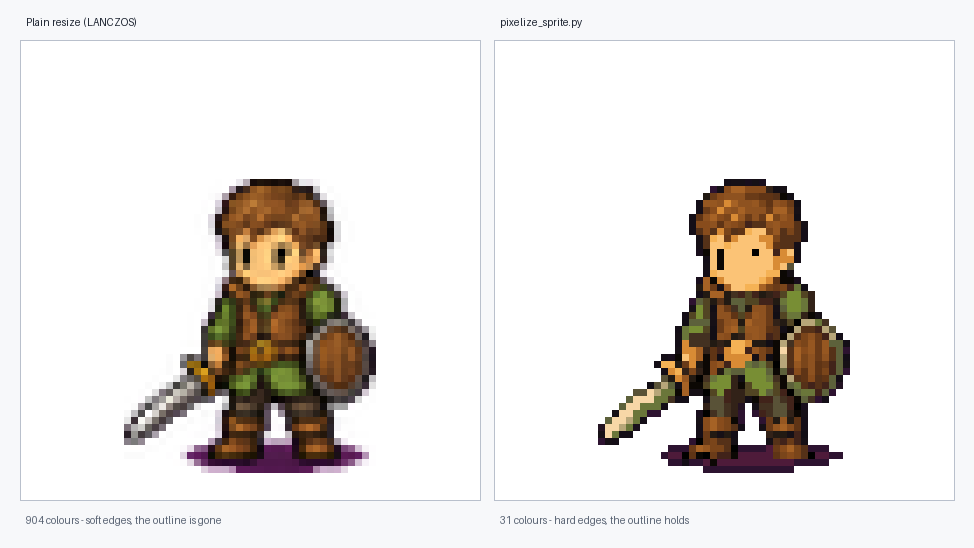
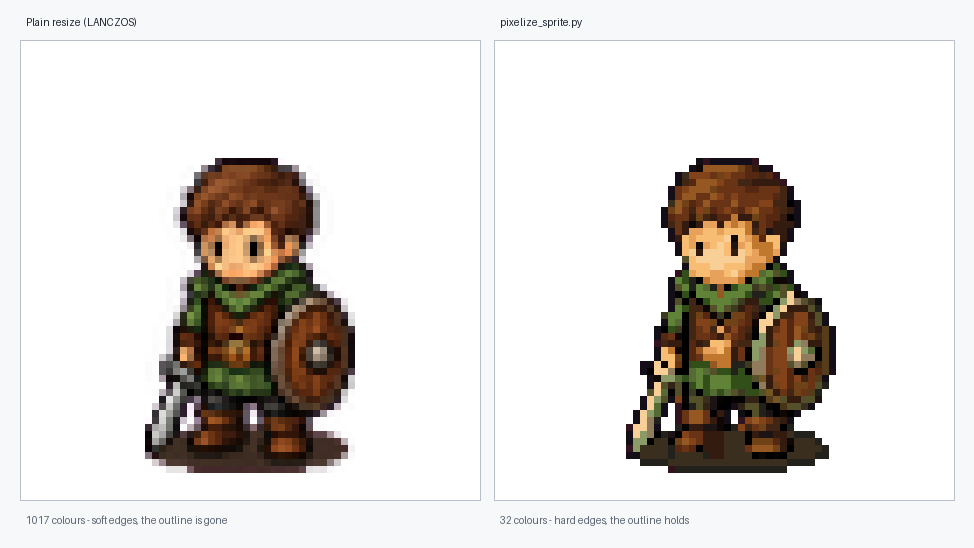
feat: npx installer, and regenerate the example with both prompt fixes applied
`npx github:jhihweijhan/fft-battle-sprite` installs the skill into a project
for both agents. It copies rather than symlinks by default, since symlinks need
elevated privileges on Windows, and refuses to overwrite an existing
installation without --force so local edits survive. --link gives the shared
copy layout for people who want one source of truth.

The worked example is regenerated with the shadow colour named and a compact
silhouette requested. Both previously-documented defects are gone: the ground
shadow is grey-brown rather than magenta, and the pose now fits at the default
--body-frac 0.70 instead of needing 0.66. The README explains what the earlier
attempt got wrong rather than shipping the defects as decoration.

Changed region(s): [[0.1232, 0.2792, 0.4004, 0.8686], [0.616, 0.2792, 0.8932, 0.8686], [0.0308, 0.9307, 0.2464, 0.9617]]

diff --git a/README.md b/README.md
@@ -39,7 +39,7 @@ Reproduce it yourself from the shipped masters:
 python3 scripts/pixelize_sprite.py \
   --sheet examples/masters/idle-2x2.png:2:2:idle_0,idle_1,idle_2,idle_3 \
   --sheet examples/masters/attack-2x2.png:2:2:attack_0,attack_1,attack_2,attack_3 \
-  --cell 64 --colors 32 --body-frac 0.66 --out /tmp/out
+  --cell 64 --colors 32 --out /tmp/out
 ```
 
 The output is byte-for-byte identical to `examples/frames/`. That determinism is
@@ -47,31 +47,61 @@ the point: masters plus a command line reproduce the delivered art, so you can
 change the delivery size or the palette later without paying for a new
 generation.
 
-Two things in this example are deliberately left as they came out, because they
-are instructive rather than decorative. The ground shadow is magenta-tinted —
-the model shaded it toward the `#FF00FF` chroma-key background because the
-prompt never said what colour a shadow is. And `--body-frac` is 0.66 rather than
-the usual 0.70, because the fully extended sword would otherwise push the pose
-out of the cell. Both are covered in
+An earlier attempt at this same example failed twice, and both fixes are now in
+the prompt template. Its ground shadow came out magenta, because the prompt
+named the background colour but never the shadow's, so the model shaded one into
+the other. And its sword was drawn fully extended, which inflated the frame's
+bounding box until the pose no longer fit its cell — the downscaler refused it
+rather than clipping silently. Naming the shadow colour and asking for a compact
+silhouette fixed both. See
 [`references/failure-modes.md`](references/failure-modes.md).
 
 ## Install
 
-Drop the directory into wherever your agent looks for skills:
+From the project you want the skill in:
+
+```sh
+npx github:jhihweijhan/fft-battle-sprite
+```
+
+That installs it for both agents:
 
 | Agent | Location |
 |---|---|
 | Claude Code | `.claude/skills/fft-battle-sprite` |
 | Codex CLI | `.codex/skills/fft-battle-sprite` |
 
-If you use both, keep one copy and symlink it:
+```
+--claude        Claude Code only
+--codex         Codex CLI only
+--link          One copy in .agents/skills, symlinked from both
+--dir <path>    Install into another project root
+--force         Overwrite an existing installation
+```
+
+It refuses to overwrite an existing installation unless you pass `--force`, so a
+skill directory you have edited locally is safe.
+
+### As a submodule
+
+If you want the skill to track upstream, add it as a submodule and symlink both
+agents at it:
 
 ```sh
-mkdir -p .agents/skills .claude/skills .codex/skills
 git submodule add https://github.com/jhihweijhan/fft-battle-sprite .agents/skills/fft-battle-sprite
+mkdir -p .claude/skills .codex/skills
 ln -s ../../.agents/skills/fft-battle-sprite .claude/skills/fft-battle-sprite
 ln -s ../../.agents/skills/fft-battle-sprite .codex/skills/fft-battle-sprite
 ```
+
+Clones then need `--recursive`, or a later `git submodule update --init` —
+without it those symlinks point at an empty directory and the skill silently
+does not exist.
+
+### Requirements
+
+The downscaler needs Python 3.10+ with `pillow` and `numpy`
+(`pip install -r requirements.txt`).
 
 Image generation itself requires an agent with a built-in image tool. Codex CLI
 has `image_gen`; Claude Code does not, and can run the postprocessing half only.
@@ -84,6 +114,7 @@ has `image_gen`; Claude Code does not, and can run the postprocessing half only.
 | `references/failure-modes.md` | Each failure, its cause, its fix, and how to catch it early |
 | `scripts/pixelize_sprite.py` | Modal-sampling downscaler with outline rebuild, feet anchoring and a shared palette |
 | `examples/` | The worked example: full-resolution masters and the delivered frames |
+| `bin/install.mjs` | The `npx` installer |
 
 ## The downscaler
 
